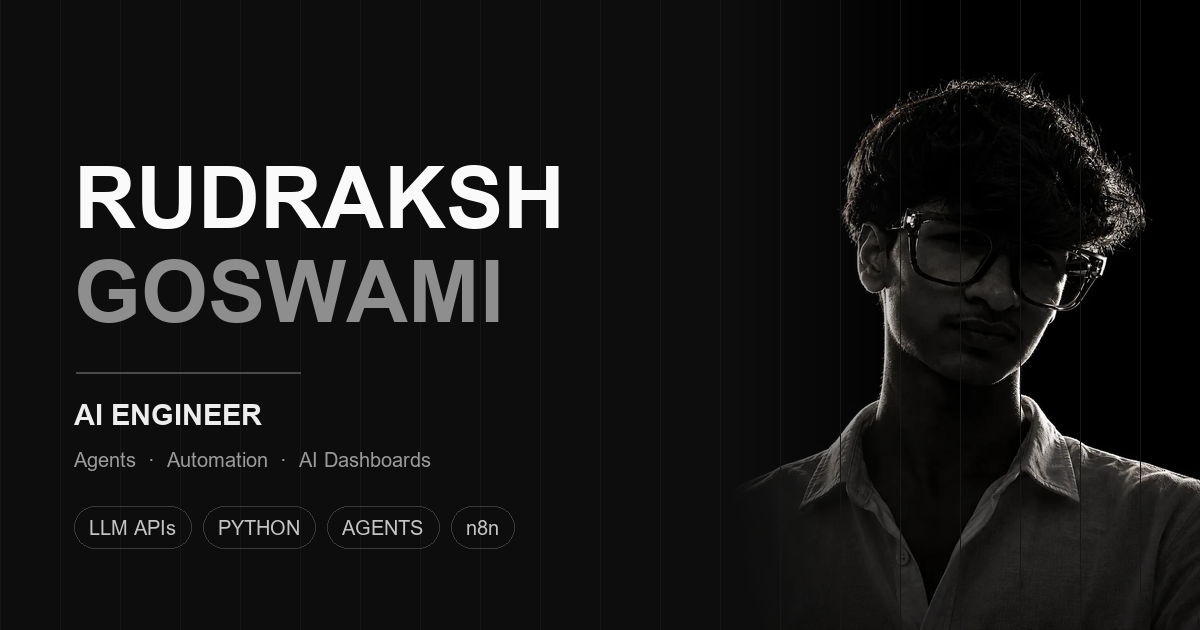
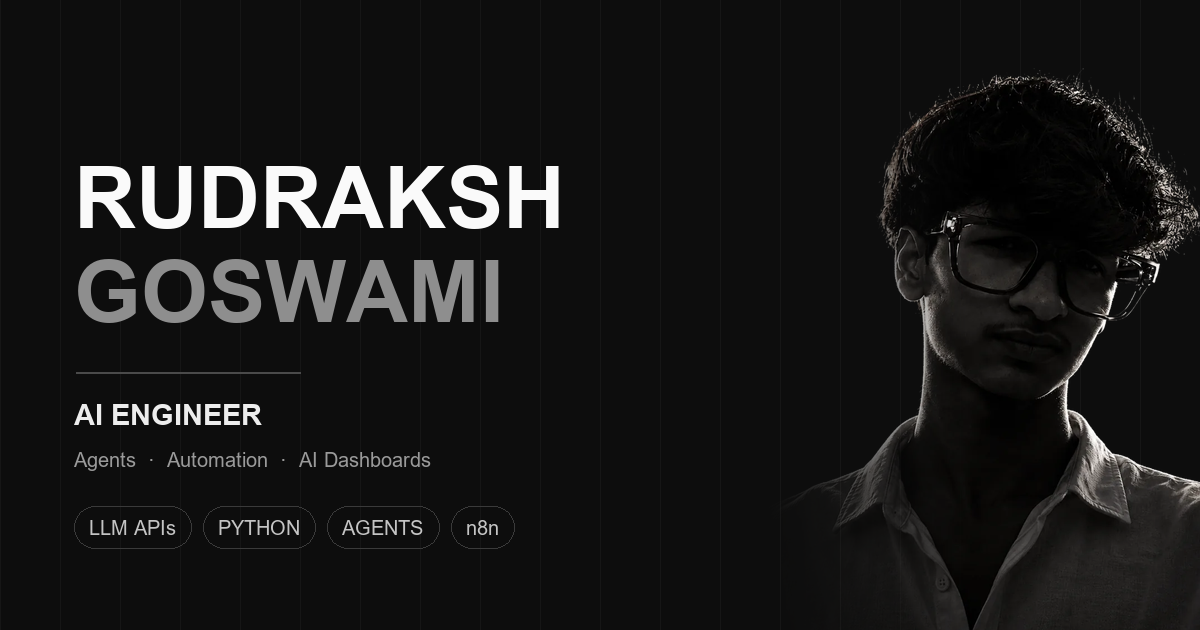
Fix the link preview card and collapse the social meta tags
The card had two faults, both visible in the image recruiters see first:
the vertical grid lines were drawn after the portrait was pasted, so they
striped across his face, and it used the dark-background photo feathered at
one edge rather than the real cut-out, which left a seam. The grid now goes
down first and the cut-out is composited with a soft left fade.

Also put og: and twitter: tags on single lines. Their content attributes had
wrapped, which proper HTML parsers handle but regex-based scrapers do not.

Changed region(s): [[0.6475, 0.1206, 1.0, 0.9952], [0.6475, 0.7841, 0.6783, 0.8143]]

diff --git a/index.html b/index.html
@@ -6,8 +6,7 @@
     <meta charset="utf-8">
     <meta content="width=device-width, initial-scale=1.0" name="viewport">
     <title>Rudraksh Goswami | AI Engineer, Surat</title>
-    <meta name="description"
-      content="AI engineer in Surat, India. I build AI agents, automation and internal AI dashboards, and handle the hosting and domains they run on. Available for freelance.">
+    <meta name="description" content="AI engineer in Surat, India. I build AI agents, automation and internal AI dashboards, and handle the hosting and domains they run on. Available for freelance.">
     <meta name="author" content="Rudraksh Goswami">
     <link rel="canonical" href="https://rudrakshgoswami.vercel.app/">
 
@@ -15,18 +14,14 @@
     <meta property="og:type" content="profile">
     <meta property="og:url" content="https://rudrakshgoswami.vercel.app/">
     <meta property="og:title" content="Rudraksh Goswami | AI Engineer">
-    <meta property="og:description"
-      content="Building AI agents, automation and internal AI dashboards, backed by two years shipping production systems. Available for freelance projects.">
-    <meta property="og:image"
-      content="https://rudrakshgoswami.vercel.app/media/og-card.png">
+    <meta property="og:description" content="Building AI agents, automation and internal AI dashboards, backed by two years shipping production systems. Available for freelance projects.">
+    <meta property="og:image" content="https://rudrakshgoswami.vercel.app/media/og-card.png">
     <meta property="og:image:width" content="1200">
     <meta property="og:image:height" content="630">
     <meta name="twitter:card" content="summary_large_image">
     <meta name="twitter:title" content="Rudraksh Goswami | AI Engineer">
-    <meta name="twitter:description"
-      content="AI agents, automation and internal AI dashboards. Surat, India.">
-    <meta name="twitter:image"
-      content="https://rudrakshgoswami.vercel.app/media/og-card.png">
+    <meta name="twitter:description" content="AI agents, automation and internal AI dashboards. Surat, India.">
+    <meta name="twitter:image" content="https://rudrakshgoswami.vercel.app/media/og-card.png">
     <meta name="theme-color" content="#FAFAFA">
     <link rel="icon" href="media/favicon.svg" type="image/svg+xml">
 
